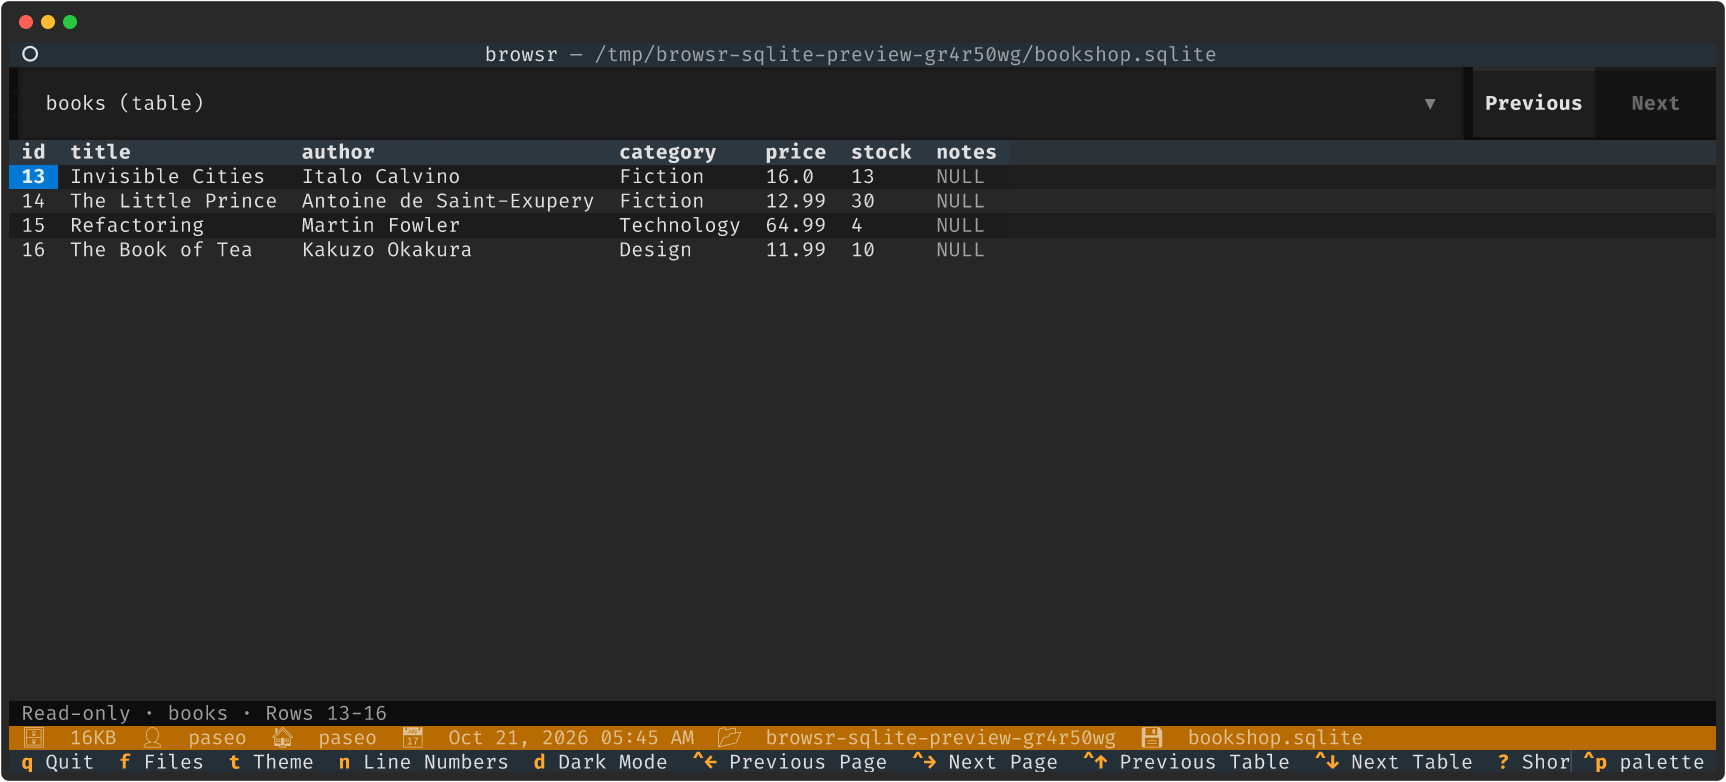
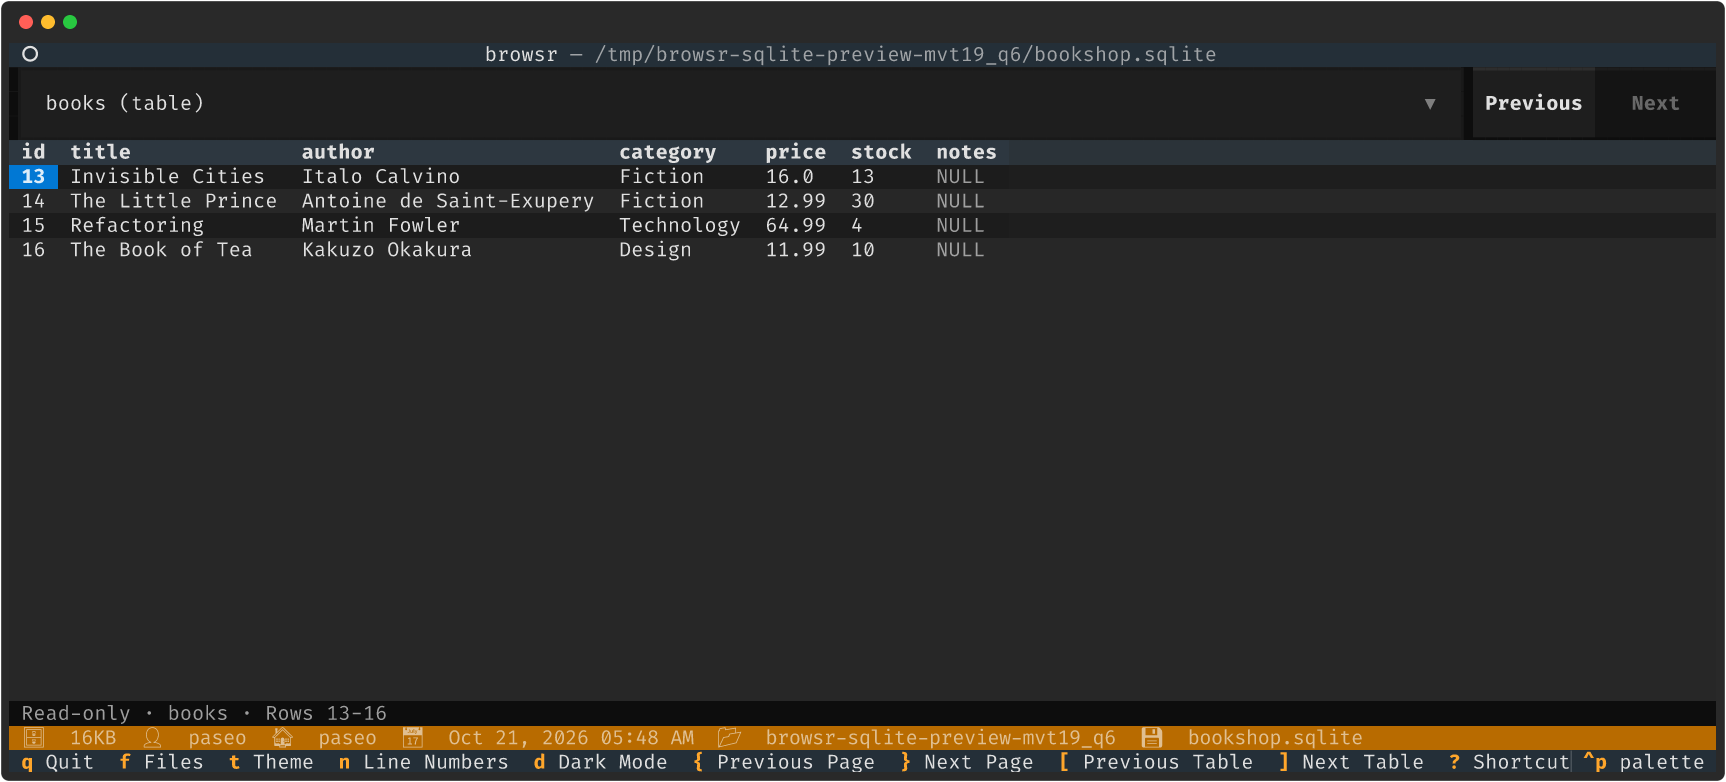
♻ use printable keys for SQLite navigation

Changed region(s): [[0.3992, 0.9207, 0.8905, 0.9821], [0.522, 0.0614, 0.5834, 0.0921]]

diff --git a/tests/test_sqlite.py b/tests/test_sqlite.py
@@ -99,7 +99,7 @@ async def test_sqlite_file_routing_and_paging(
         assert viewer.data_table.row_count == 1
         assert viewer.data_table.get_row_at(0)[0].plain == "3"
         assert viewer.next_button.disabled is True
-        await pilot.press("ctrl+left")
+        await pilot.press("left_curly_bracket")
         assert viewer.row_offset == 0
         assert viewer.data_table.row_count == 2
 
@@ -157,25 +157,25 @@ async def test_table_shortcuts_wrap_reset_paging_and_preserve_focus(
         viewer = browser.window_switcher.sqlite_window
         focused_widget = getattr(viewer, focus_target)
         focused_widget.focus()
-        await pilot.press("ctrl+right")
+        await pilot.press("right_curly_bracket")
         assert viewer.row_offset == 2
 
-        await pilot.press("ctrl+up")
+        await pilot.press("left_square_bracket")
         assert viewer.table_name == viewer.selector.value == "example_view"
         assert viewer.row_offset == 0
         assert viewer.data_table.row_count == 2
         assert app.focused is focused_widget
 
-        await pilot.press("ctrl+down")
+        await pilot.press("right_square_bracket")
         assert viewer.table_name == viewer.selector.value == 'a weird " table'
         assert viewer.data_table.get_row_at(0)[0].plain == "1"
-        await pilot.press("ctrl+down")
+        await pilot.press("right_square_bracket")
         assert viewer.table_name == viewer.selector.value == "broken_view"
         assert "Unable to read" in str(viewer.status.content)
-        await pilot.press("ctrl+down")
+        await pilot.press("right_square_bracket")
         assert viewer.table_name == viewer.selector.value == "empty"
         assert viewer.data_table.row_count == 0
-        await pilot.press("ctrl+down")
+        await pilot.press("right_square_bracket")
         assert viewer.table_name == viewer.selector.value == "example_view"
         assert viewer.data_table.row_count == 2
         assert app.focused is focused_widget
@@ -183,10 +183,10 @@ async def test_table_shortcuts_wrap_reset_paging_and_preserve_focus(
         await pilot.press("question_mark")
         shortcuts = browser.shortcuts.query_one(DataTable)
         rows = [shortcuts.get_row_at(index) for index in range(shortcuts.row_count)]
-        assert ["ctrl+up", "Previous Table"] in rows
-        assert ["ctrl+down", "Next Table"] in rows
-        assert ["ctrl+left", "Previous Page"] in rows
-        assert ["ctrl+right", "Next Page"] in rows
+        assert ["[", "Previous Table"] in rows
+        assert ["]", "Next Table"] in rows
+        assert ["{", "Previous Page"] in rows
+        assert ["}", "Next Page"] in rows
         assert ["c", "Copy Cell"] in rows
         assert ["shift+c", "Copy Row"] in rows
 
@@ -203,7 +203,9 @@ async def test_table_shortcuts_preserve_page_for_single_table(tmp_path: Path) ->
     async with app.run_test() as pilot:
         viewer = app.code_browser_screen.code_browser.window_switcher.sqlite_window
         viewer.data_table.focus()
-        await pilot.press("ctrl+right", "ctrl+up", "ctrl+down")
+        await pilot.press(
+            "right_curly_bracket", "left_square_bracket", "right_square_bracket"
+        )
         assert viewer.table_name == viewer.selector.value == "numbers"
         assert viewer.row_offset == 1
         assert viewer.data_table.get_row_at(0)[0].plain == "2"
@@ -286,15 +288,15 @@ async def test_copy_row_tracks_selection_pages_and_tables(
             "value": None,
             "data": {"type": "blob", "hex": ""},
         }
-        await pilot.press("ctrl+right", "C")
+        await pilot.press("right_curly_bracket", "C")
         assert json.loads(copied[-1]) == {"id": 3, "value": 1.5, "data": None}
-        await pilot.press("ctrl+down", "C")
+        await pilot.press("right_square_bracket", "C")
         assert viewer.table_name == "broken_view"
         assert len(copied) == 2
-        await pilot.press("ctrl+down", "C")
+        await pilot.press("right_square_bracket", "C")
         assert viewer.table_name == "empty"
         assert len(copied) == 2
-        await pilot.press("ctrl+down", "C")
+        await pilot.press("right_square_bracket", "C")
         assert viewer.table_name == "example_view"
         assert json.loads(copied[-1]) == {
             "id": 1,
@@ -319,15 +321,15 @@ async def test_copy_cell_tracks_selection_pages_and_tables(
         assert copied == ["NULL"]
         await pilot.press("right", "c")
         assert copied[-1] == ""
-        await pilot.press("ctrl+right", "right", "c")
+        await pilot.press("right_curly_bracket", "right", "c")
         assert copied[-1] == "1.5"
-        await pilot.press("ctrl+down", "c")
+        await pilot.press("right_square_bracket", "c")
         assert viewer.table_name == "broken_view"
         assert len(copied) == 3
-        await pilot.press("ctrl+down", "c")
+        await pilot.press("right_square_bracket", "c")
         assert viewer.table_name == "empty"
         assert len(copied) == 3
-        await pilot.press("ctrl+down", "right", "c")
+        await pilot.press("right_square_bracket", "right", "c")
         assert viewer.table_name == "example_view"
         assert copied[-1] == "[bold]literal[/bold]"
 
@@ -375,10 +377,10 @@ async def test_sqlite_help_lists_all_shortcuts_outside_viewer_focus(
         expected = [
             ["c", "Copy Cell"],
             ["shift+c", "Copy Row"],
-            ["ctrl+left", "Previous Page"],
-            ["ctrl+right", "Next Page"],
-            ["ctrl+up", "Previous Table"],
-            ["ctrl+down", "Next Table"],
+            ["{", "Previous Page"],
+            ["}", "Next Page"],
+            ["[", "Previous Table"],
+            ["]", "Next Table"],
         ]
         assert all(row in rows for row in expected)
         assert len({row[0] for row in rows}) == len(rows)
@@ -408,7 +410,7 @@ async def test_empty_and_invalid_databases(
     async with app.run_test() as pilot:
         viewer = app.code_browser_screen.code_browser.window_switcher.sqlite_window
         viewer.focus()
-        await pilot.press("ctrl+up", "ctrl+down")
+        await pilot.press("left_square_bracket", "right_square_bracket")
         assert viewer.display
         assert viewer.data_table.row_count == 0
         assert viewer.selector.disabled

diff --git a/browsr/widgets/sqlite.py b/browsr/widgets/sqlite.py
@@ -36,10 +36,14 @@ class SQLiteWindow(Container):
 
     can_focus = True
     BINDINGS: ClassVar[list[BindingType]] = [
-        Binding("ctrl+left", "previous_page", "Previous Page"),
-        Binding("ctrl+right", "next_page", "Next Page"),
-        Binding("ctrl+up", "previous_table", "Previous Table"),
-        Binding("ctrl+down", "next_table", "Next Table"),
+        Binding(
+            "left_curly_bracket", "previous_page", "Previous Page", key_display="{"
+        ),
+        Binding("right_curly_bracket", "next_page", "Next Page", key_display="}"),
+        Binding(
+            "left_square_bracket", "previous_table", "Previous Table", key_display="["
+        ),
+        Binding("right_square_bracket", "next_table", "Next Table", key_display="]"),
         Binding("c", "copy_cell", "Copy Cell"),
         Binding("C", "copy_row", "Copy Row", key_display="shift+c"),
     ]

diff --git a/README.md b/README.md
@@ -88,11 +88,10 @@ browsr ~/Downloads/
 
 Open a `.db`, `.db3`, `.sqlite`, or `.sqlite3` file to browse its tables and views
 without modifying the database. Select an object from the dropdown to browse its
-rows. Use **Previous** and **Next** (or **Ctrl+Left** and **Ctrl+Right**) to page
-through rows. The `--max-lines` option controls the number of rows per page
-(default: 1000).
+rows. Use **Previous** and **Next** (or `{` and `}`) to page through rows. The
+`--max-lines` option controls the number of rows per page (default: 1000).
 
-Use **Ctrl+Up** and **Ctrl+Down** to switch to the previous or next table or view.
+Use `[` and `]` to switch to the previous or next table or view.
 Navigation wraps at either end of the dropdown and starts each selected object
 at its first page. These shortcuts are also listed under **?**.
 
